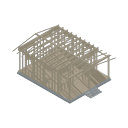
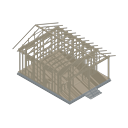
Starter house: rafters bear on the plates, ceiling joists below the roof, one roof height in every stage
The joists poked through the roof in the walls stage: the rafters dipped below the top plates and each stage used its own
height. Rafters now cross the wall line 0.4 m above the plates, joists are 0.16 m deep, and every stage uses the final height.

diff --git a/tools/make_house_stages.py b/tools/make_house_stages.py
@@ -48,6 +48,11 @@ class Ctx:
         self.yh0 = -d / 2 + PORCH_D             # the front wall's outer plane (behind the porch)
         self.ov = 0.35                          # roof overhang
         self.zr = h_total - 0.2                 # rafter centre line at the ridge
+        # the rafters bear on the double top plates: their centre line crosses the wall line (x = w/2) 0.4 m above the wall top, clear of the
+        # ceiling joists, and carries on down to the end of the overhang. Every stage uses the FINAL height, so the roof is the same in all of them.
+        self.zw = self.top + 0.40
+        self.slope = (self.zr - self.zw) / (w / 2 - 0.04)
+        self.eave_z = self.zw - self.slope * self.ov
         self.half = w / 2
         # openings per wall: u0, u1 along the wall (x for front/back, y for left/right), z0, z1 above the floor
         win = lambda c: (c - WIN_W / 2, c + WIN_W / 2, WIN_SILL, WIN_SILL + WIN_H)
@@ -140,10 +145,10 @@ def rafters(b, c, M, spacing=0.6, collar=True):
     for k in range(n):
         y = y0 + (y1 - y0) * k / (n - 1)
         for side in (-1, 1):
-            b.log((side * (w / 2 + ov), y, top - 0.12), (side * 0.04, y, zr), 0.05, M['lumber'], sides=6)
+            b.log((side * (w / 2 + ov), y, c.eave_z), (side * 0.04, y, zr), 0.05, M['lumber'], sides=6)
         if collar and k % 2 == 0:
-            zc = top + (zr - top) * 0.55
-            xc = (w / 2 + ov) * (1 - (zc - (top - 0.12)) / (zr - (top - 0.12)))
+            zc = c.zw + (zr - c.zw) * 0.55
+            xc = 0.04 + (zr - zc) / c.slope
             b.box(-xc, xc, y - 0.03, y + 0.03, zc, zc + 0.05, M['lumber'])                           # collar ties
 
 
@@ -233,7 +238,7 @@ def framing(b, c, M):
     n = int((d / 2 - c.yh0) / 0.6) + 1
     for k in range(n):
         y = c.yh0 + 0.1 + (d / 2 - c.yh0 - 0.2) * k / max(1, n - 1)
-        b.box(-w / 2, w / 2, y - 0.03, y + 0.03, top + 0.18, top + 0.38, M['lumber'])
+        b.box(-w / 2, w / 2, y - 0.03, y + 0.03, top + 0.18, top + 0.34, M['lumber'])
     porch_posts(b, c, M, top)
     b.box(-w / 2, w / 2, -d / 2 + 0.08, -d / 2 + 0.22, top, top + 0.22, M['lumber'])                  # porch beam
     for x in (-w / 2 + 0.12, w / 2 - 0.12):
@@ -250,7 +255,7 @@ def gable_studs(b, c, M):
     w = c.w
     for y in (-c.d / 2 + 0.12, c.d / 2 - 0.1):
         for x in (-w * 0.4, -w * 0.25, -w * 0.1, w * 0.1, w * 0.25, w * 0.4):
-            zt = c.top + 0.18 + (c.zr - 0.1 - (c.top + 0.18)) * (1 - abs(x) / (w / 2 + 0.05))
+            zt = c.zr - c.slope * (abs(x) - 0.04) - 0.07          # up to the rafters' underside
             b.box(x - 0.025, x + 0.025, y - 0.035, y + 0.035, c.top + 0.18, zt, M['lumber'])
 
 
@@ -278,7 +283,7 @@ def porch_floor(b, c, M):
 def roof_deck(b, c, m, thick):
     w, d, ov = c.w, c.d, c.ov
     for side in (-1, 1):
-        b.roof_slab(side * (w / 2 + ov), c.top - 0.12 + 0.06 + thick, c.zr + 0.06 + thick, -d / 2 - ov, d / 2 + ov, thick, m)
+        b.roof_slab(side * (w / 2 + ov), c.eave_z + 0.06 + thick, c.zr + 0.06 + thick, -d / 2 - ov, d / 2 + ov, thick, m)
 
 
 def complete(b, c, M, glass, finishings=False):
@@ -314,7 +319,7 @@ def complete(b, c, M, glass, finishings=False):
                 window_dressing(parts[wall], c, M, M['glass'], wall, u0, u1, zl, zh, shutters=(wall == 'front'))
     # gable ends, clad: triangles with a vent window on the front
     for y in (-d / 2 + 0.1, d / 2 - 0.04):
-        parts['front' if y < 0 else 'back'].prism_gable(-w / 2, w / 2, y, 0.06, top + 0.18, c.zr + 0.02, M['siding'])
+        parts['front' if y < 0 else 'back'].prism_gable(-w / 2, w / 2, y, 0.06, c.zw - 0.07, c.zr - 0.05, M['siding'])
     # a small round-ish vent in the front gable
     parts['front'].box(-0.22, 0.22, -d / 2 + 0.05, -d / 2 + 0.08, top + 0.85, top + 1.25, M['trim'])
     glass_builder.box(-0.18, 0.18, -d / 2 + 0.04, -d / 2 + 0.065, top + 0.89, top + 1.21, M['glass'])
@@ -322,14 +327,14 @@ def complete(b, c, M, glass, finishings=False):
     roof_deck(parts['roof'], c, M['osb'], 0.035)
     for side in (-1, 1):
         zs = 0.035 + 0.035
-        parts['roof'].roof_slab(side * (w / 2 + ov), c.top - 0.12 + 0.06 + zs, c.zr + 0.06 + zs, -d / 2 - ov, d / 2 + ov, 0.035, M['shingle'])
+        parts['roof'].roof_slab(side * (w / 2 + ov), c.eave_z + 0.06 + zs, c.zr + 0.06 + zs, -d / 2 - ov, d / 2 + ov, 0.035, M['shingle'])
         # shingle course lines: thin darker strips along the slope at intervals
         for k in range(1, 6):
             t = k / 6
             xe = side * (w / 2 + ov) * (1 - t)
-            ze = (c.top - 0.12 + 0.06 + zs) + (c.zr + 0.06 + zs - (c.top - 0.12 + 0.06 + zs)) * t
+            ze = (c.eave_z + 0.06 + zs) + (c.zr + 0.06 + zs - (c.eave_z + 0.06 + zs)) * t
             parts['roof'].box(min(xe, xe + side * 0.02), max(xe, xe + side * 0.02), -d / 2 - ov, d / 2 + ov, ze, ze + 0.045, M['shingle_dark'])
-        parts['roof'].box(side * (w / 2 + ov) - 0.035, side * (w / 2 + ov) + 0.035, -d / 2 - ov, d / 2 + ov, c.top - 0.2, c.top - 0.12 + 0.12, M['trim'])      # fascia
+        parts['roof'].box(side * (w / 2 + ov) - 0.035, side * (w / 2 + ov) + 0.035, -d / 2 - ov, d / 2 + ov, c.eave_z - 0.1, c.eave_z + 0.12, M['trim'])      # fascia
     parts['roof'].box(-0.1, 0.1, -d / 2 - ov, d / 2 + ov, c.zr + 0.12, c.zr + 0.2, M['shingle_dark'])                          # ridge cap
     # the porch: deck boards, three posts, railing with balusters (a gap at the steps), a beam, step treads
     deck_boards(b, c, M, z0 - 0.035, -d / 2, c.yh0)
@@ -420,6 +425,7 @@ def main():
         'glass': base.glass_material(),
     }
     sizes = {}
+    final_h = json.load(open(manifest_for(structure, 'struct_complete')[1], encoding='utf-8'))['category_fields']['dimensions_m']['height']
     stage_folders = ['struct_foundation', 'struct_framing', 'struct_walls', 'struct_complete']
     if os.path.isdir(os.path.join(STRUCTURES, structure, 'stages', 'struct_finishings')):
         stage_folders.append('struct_finishings')
@@ -432,7 +438,7 @@ def main():
         for o in list(bpy.data.objects):
             bpy.data.objects.remove(o, do_unlink=True)
         del base.EXTRA_OBJECTS[:]
-        c = Ctx(w, depth, h, found)
+        c = Ctx(w, depth, final_h, found)
         b = Builder(d['id'])
         global glass_builder
         glass_builder = Builder('WindowGlass')
